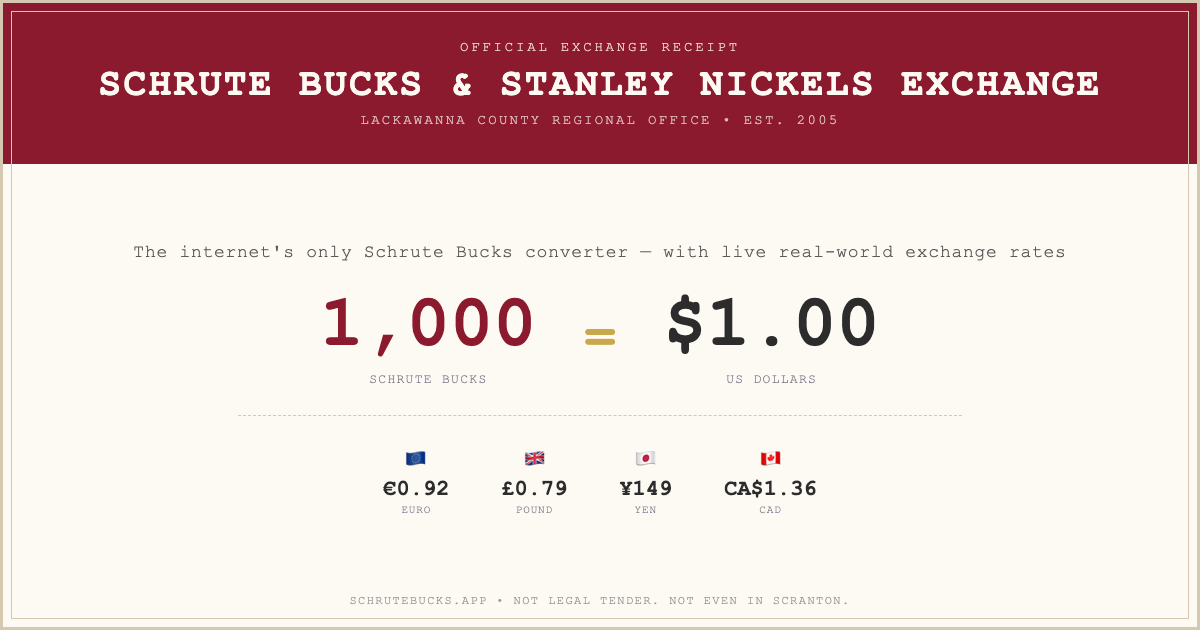
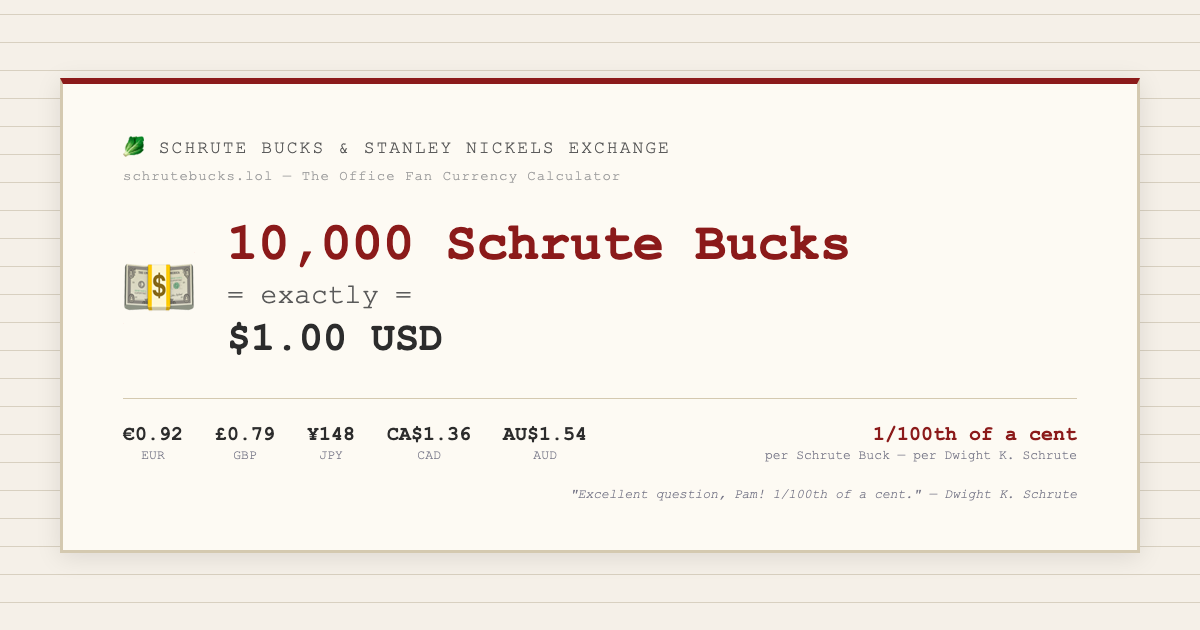
Regenerate OG image with correct rate: 10,000 SB = $1.00 USD

diff --git a/og-template.html b/og-template.html
@@ -1,0 +1,124 @@
+<!DOCTYPE html>
+<html>
+<head>
+<meta charset="UTF-8"/>
+<style>
+  * { margin: 0; padding: 0; box-sizing: border-box; }
+  body {
+    width: 1200px;
+    height: 630px;
+    background: #f5f0e8;
+    background-image: repeating-linear-gradient(0deg, transparent, transparent 27px, #d8d0c0 27px, #d8d0c0 28px);
+    font-family: 'Courier New', Courier, monospace;
+    display: flex;
+    align-items: center;
+    justify-content: center;
+  }
+  .card {
+    background: #fdfaf3;
+    border: 3px solid #d4c9b0;
+    border-top: 6px solid #8b1a1a;
+    padding: 48px 60px;
+    width: 1080px;
+    box-shadow: 0 4px 24px rgba(0,0,0,0.10);
+  }
+  .logo {
+    font-size: 18px;
+    color: #5a5a5a;
+    letter-spacing: 2px;
+    text-transform: uppercase;
+    margin-bottom: 8px;
+  }
+  .site {
+    font-size: 14px;
+    color: #a0a0a0;
+    margin-bottom: 36px;
+    letter-spacing: 1px;
+  }
+  .main {
+    display: flex;
+    align-items: center;
+    gap: 32px;
+    margin-bottom: 36px;
+  }
+  .emoji { font-size: 72px; }
+  .conversion {
+    flex: 1;
+  }
+  .top-line {
+    font-size: 52px;
+    font-weight: bold;
+    color: #8b1a1a;
+    line-height: 1;
+    margin-bottom: 8px;
+  }
+  .equals {
+    font-size: 28px;
+    color: #5a5a5a;
+    margin-bottom: 6px;
+  }
+  .usd {
+    font-size: 40px;
+    font-weight: bold;
+    color: #2c2c2c;
+  }
+  .secondary {
+    display: flex;
+    gap: 32px;
+    padding-top: 24px;
+    border-top: 1px solid #d4c9b0;
+  }
+  .sec-item { text-align: center; }
+  .sec-val { font-size: 20px; font-weight: bold; color: #2c2c2c; }
+  .sec-label { font-size: 13px; color: #7a7a8a; margin-top: 2px; }
+  .tagline {
+    margin-top: 24px;
+    font-size: 13px;
+    color: #7a7a8a;
+    font-style: italic;
+    text-align: right;
+  }
+</style>
+</head>
+<body>
+<div class="card">
+  <div class="logo">🥬 Schrute Bucks &amp; Stanley Nickels Exchange</div>
+  <div class="site">schrutebucks.lol — The Office Fan Currency Calculator</div>
+  <div class="main">
+    <div class="emoji">💵</div>
+    <div class="conversion">
+      <div class="top-line">10,000 Schrute Bucks</div>
+      <div class="equals">= exactly =</div>
+      <div class="usd">$1.00 USD</div>
+    </div>
+  </div>
+  <div class="secondary">
+    <div class="sec-item">
+      <div class="sec-val">€0.92</div>
+      <div class="sec-label">EUR</div>
+    </div>
+    <div class="sec-item">
+      <div class="sec-val">£0.79</div>
+      <div class="sec-label">GBP</div>
+    </div>
+    <div class="sec-item">
+      <div class="sec-val">¥148</div>
+      <div class="sec-label">JPY</div>
+    </div>
+    <div class="sec-item">
+      <div class="sec-val">CA$1.36</div>
+      <div class="sec-label">CAD</div>
+    </div>
+    <div class="sec-item">
+      <div class="sec-val">AU$1.54</div>
+      <div class="sec-label">AUD</div>
+    </div>
+    <div class="sec-item" style="margin-left:auto; text-align:right;">
+      <div class="sec-val" style="color:#8b1a1a;">1/100th of a cent</div>
+      <div class="sec-label">per Schrute Buck — per Dwight K. Schrute</div>
+    </div>
+  </div>
+  <div class="tagline">"Excellent question, Pam! 1/100th of a cent." — Dwight K. Schrute</div>
+</div>
+</body>
+</html>